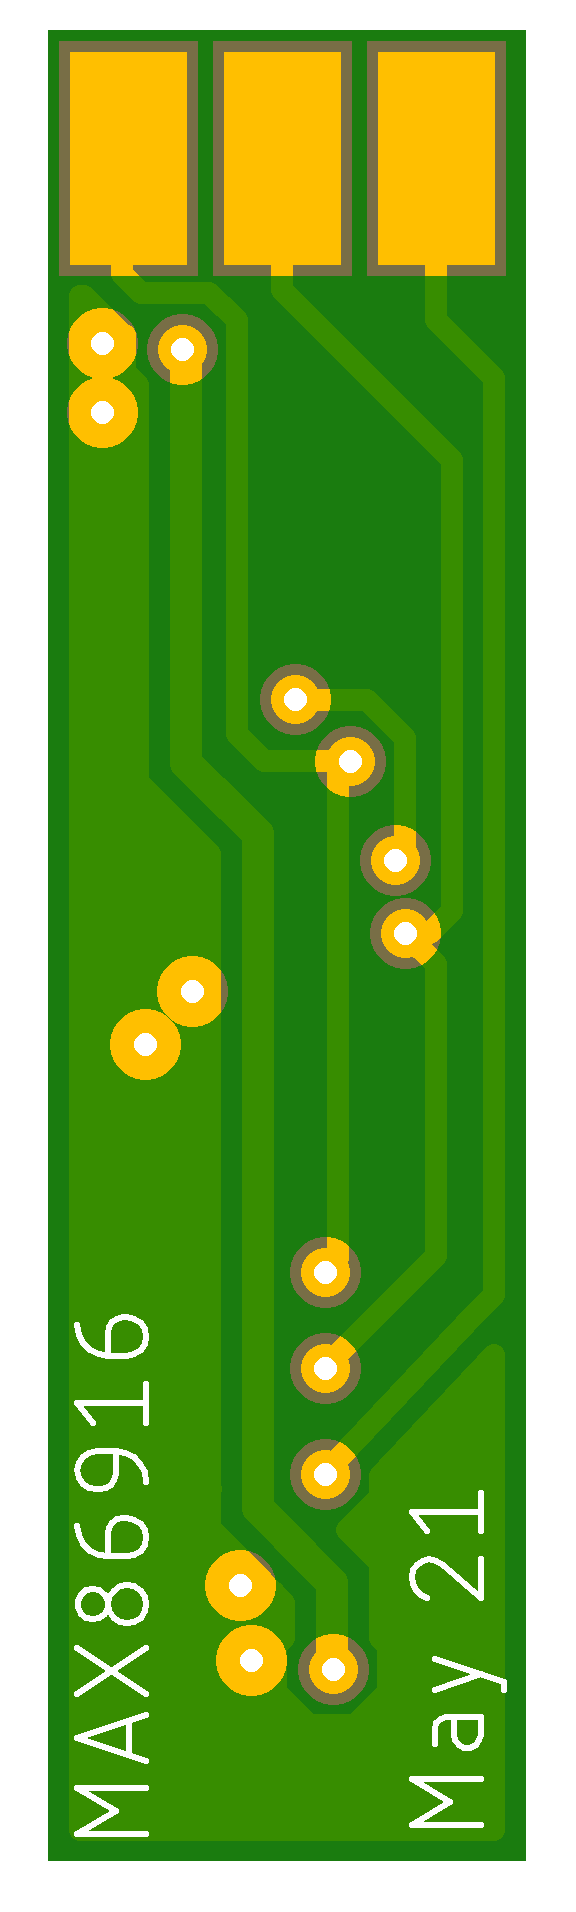
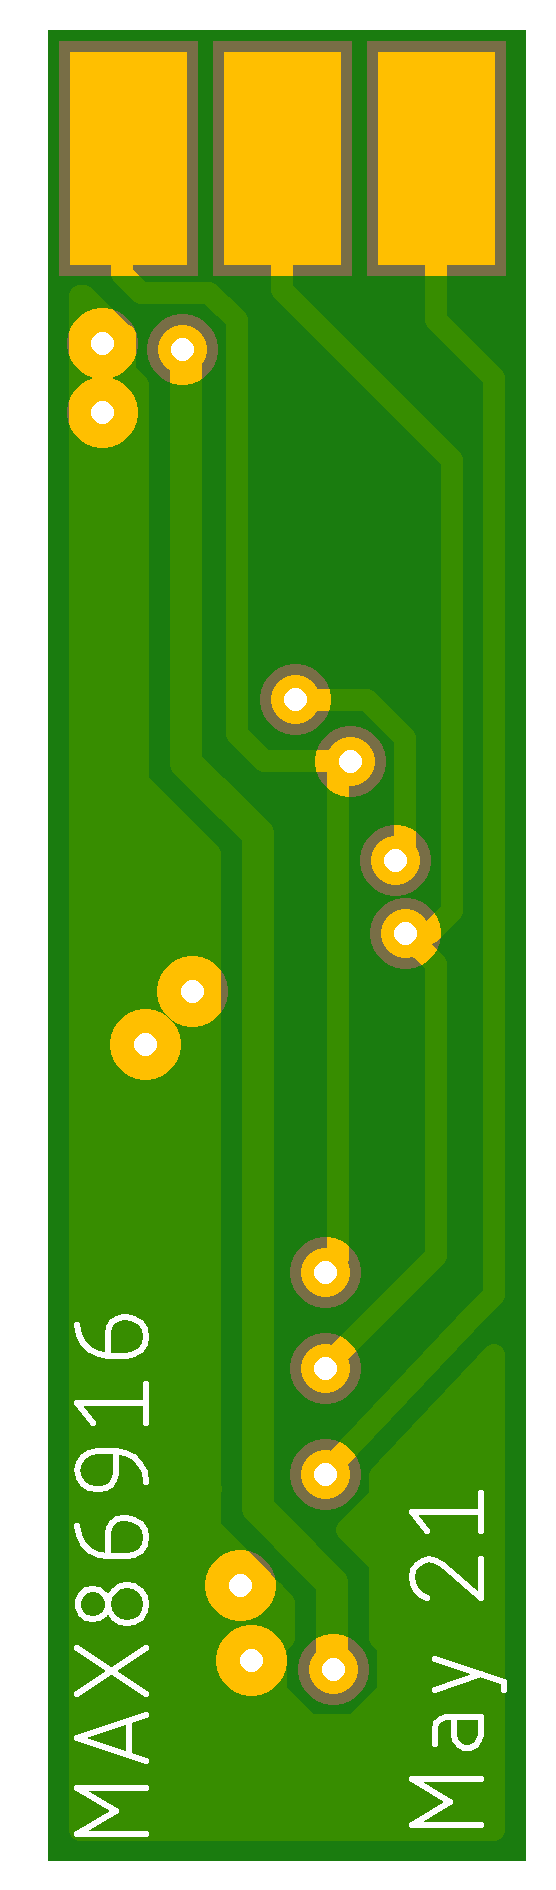
dimensionamento immagini

Changed region(s): [[0.0612, 0.0, 0.9478, 0.9989]]

diff --git a/Tesi/TextFiles/Progetto della piattaforma indossabile/Hardware dell’adapter board.tex b/Tesi/TextFiles/Progetto della piattaforma indossabile/Hardware dell’adapter board.tex
@@ -42,10 +42,10 @@ Il layout è stato prodotto partendo dallo schematico avendo cura di realizzare 
 \todo{Immagini da sistemare per metterle in fila a stessa dimensione}
 \begin{figure}[h]
 	\centering
-	\includegraphics[width=0.1\linewidth]{ImageFiles/Hardware/layout_top_maxm}
-	\includegraphics[width=0.1\linewidth]{ImageFiles/Hardware/layout_bottom_maxm}
-	\includegraphics[width=0.4\linewidth]{ImageFiles/Hardware/manifacturing_top_maxm}
-	\includegraphics[width=0.4\linewidth]{ImageFiles/Hardware/manifacturing_bottom_maxm}
+	\includegraphics[width=0.15\linewidth]{ImageFiles/Hardware/layout_top_maxm}
+	\includegraphics[width=0.15\linewidth]{ImageFiles/Hardware/layout_bottom_maxm}
+	\includegraphics[width=0.15\linewidth]{ImageFiles/Hardware/manifacturing_top_maxm}
+	\includegraphics[width=0.15\linewidth]{ImageFiles/Hardware/manifacturing_bottom_maxm}
 	\caption{Da sistemare}
 	\label{fig:Layout_maxm}
 \end{figure}
